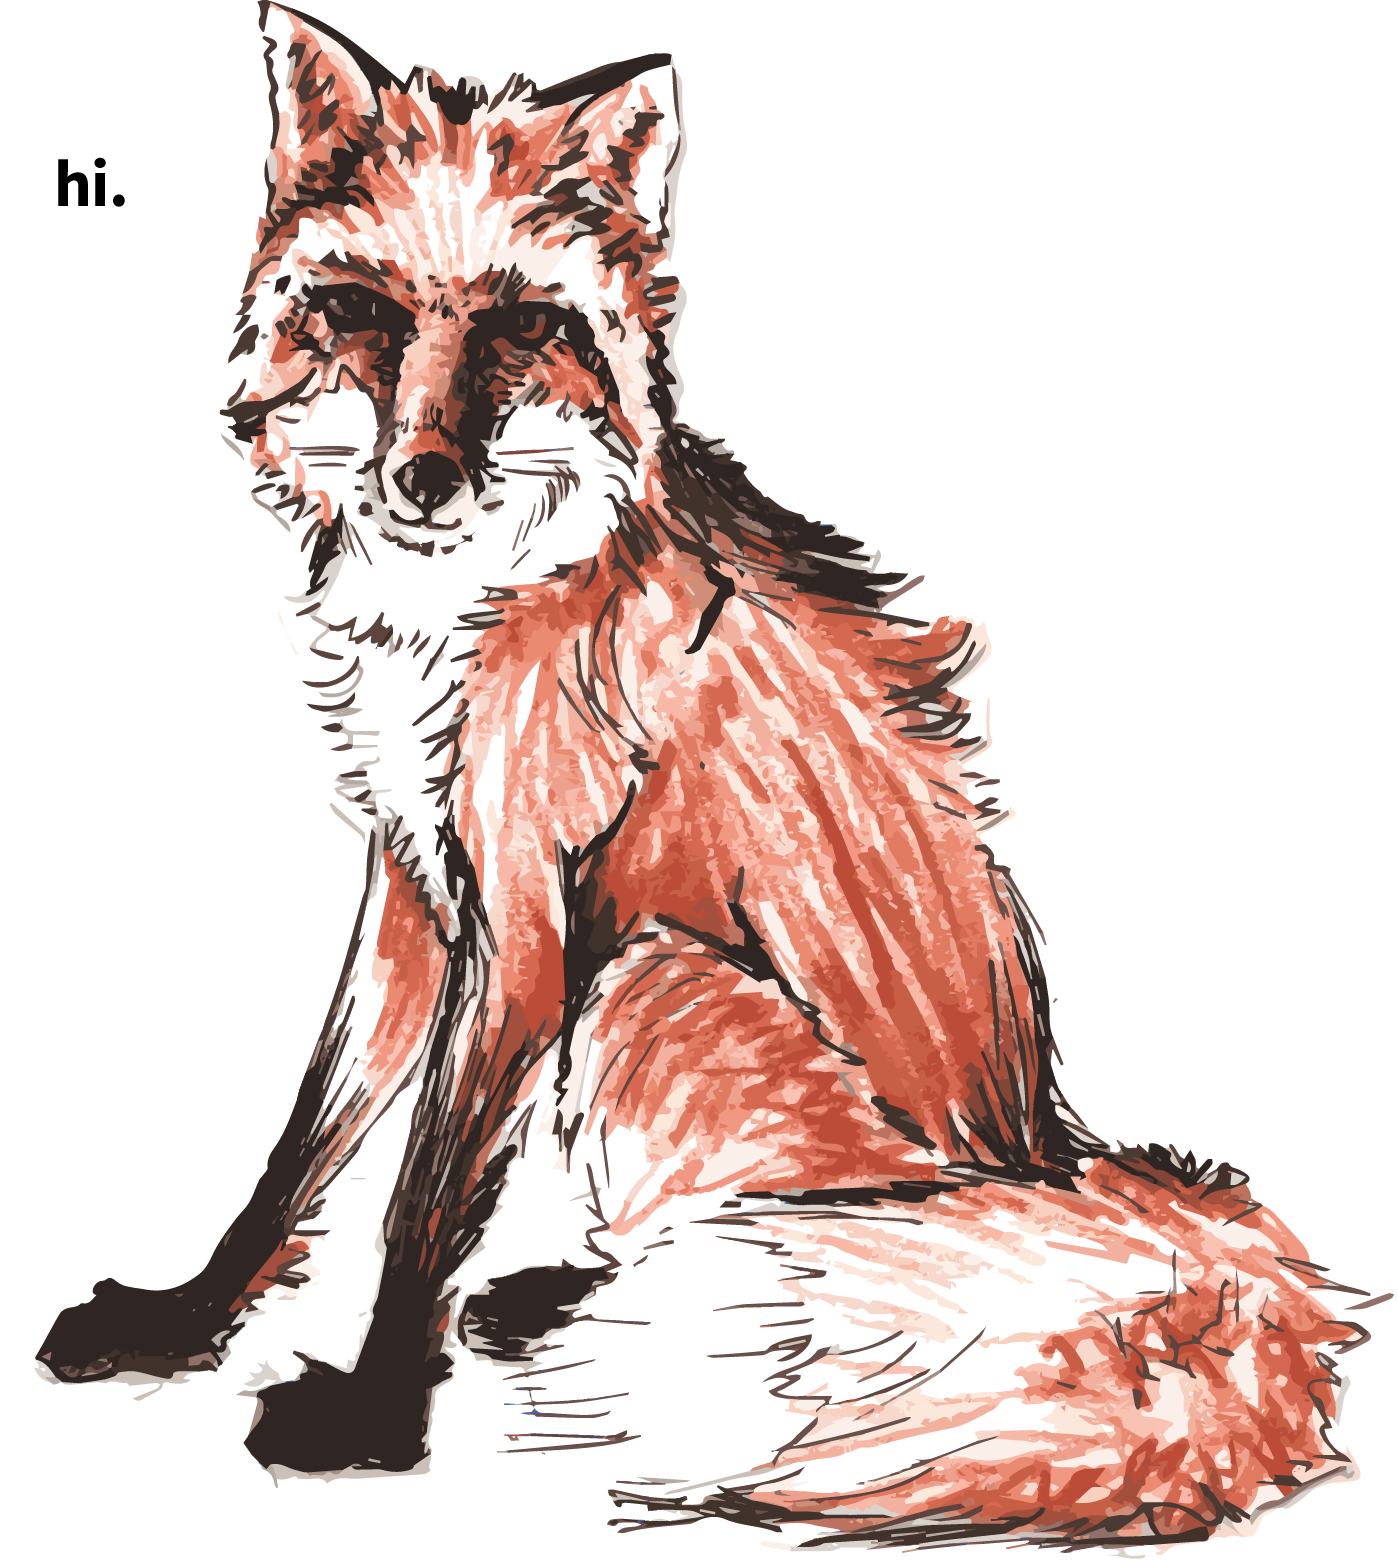
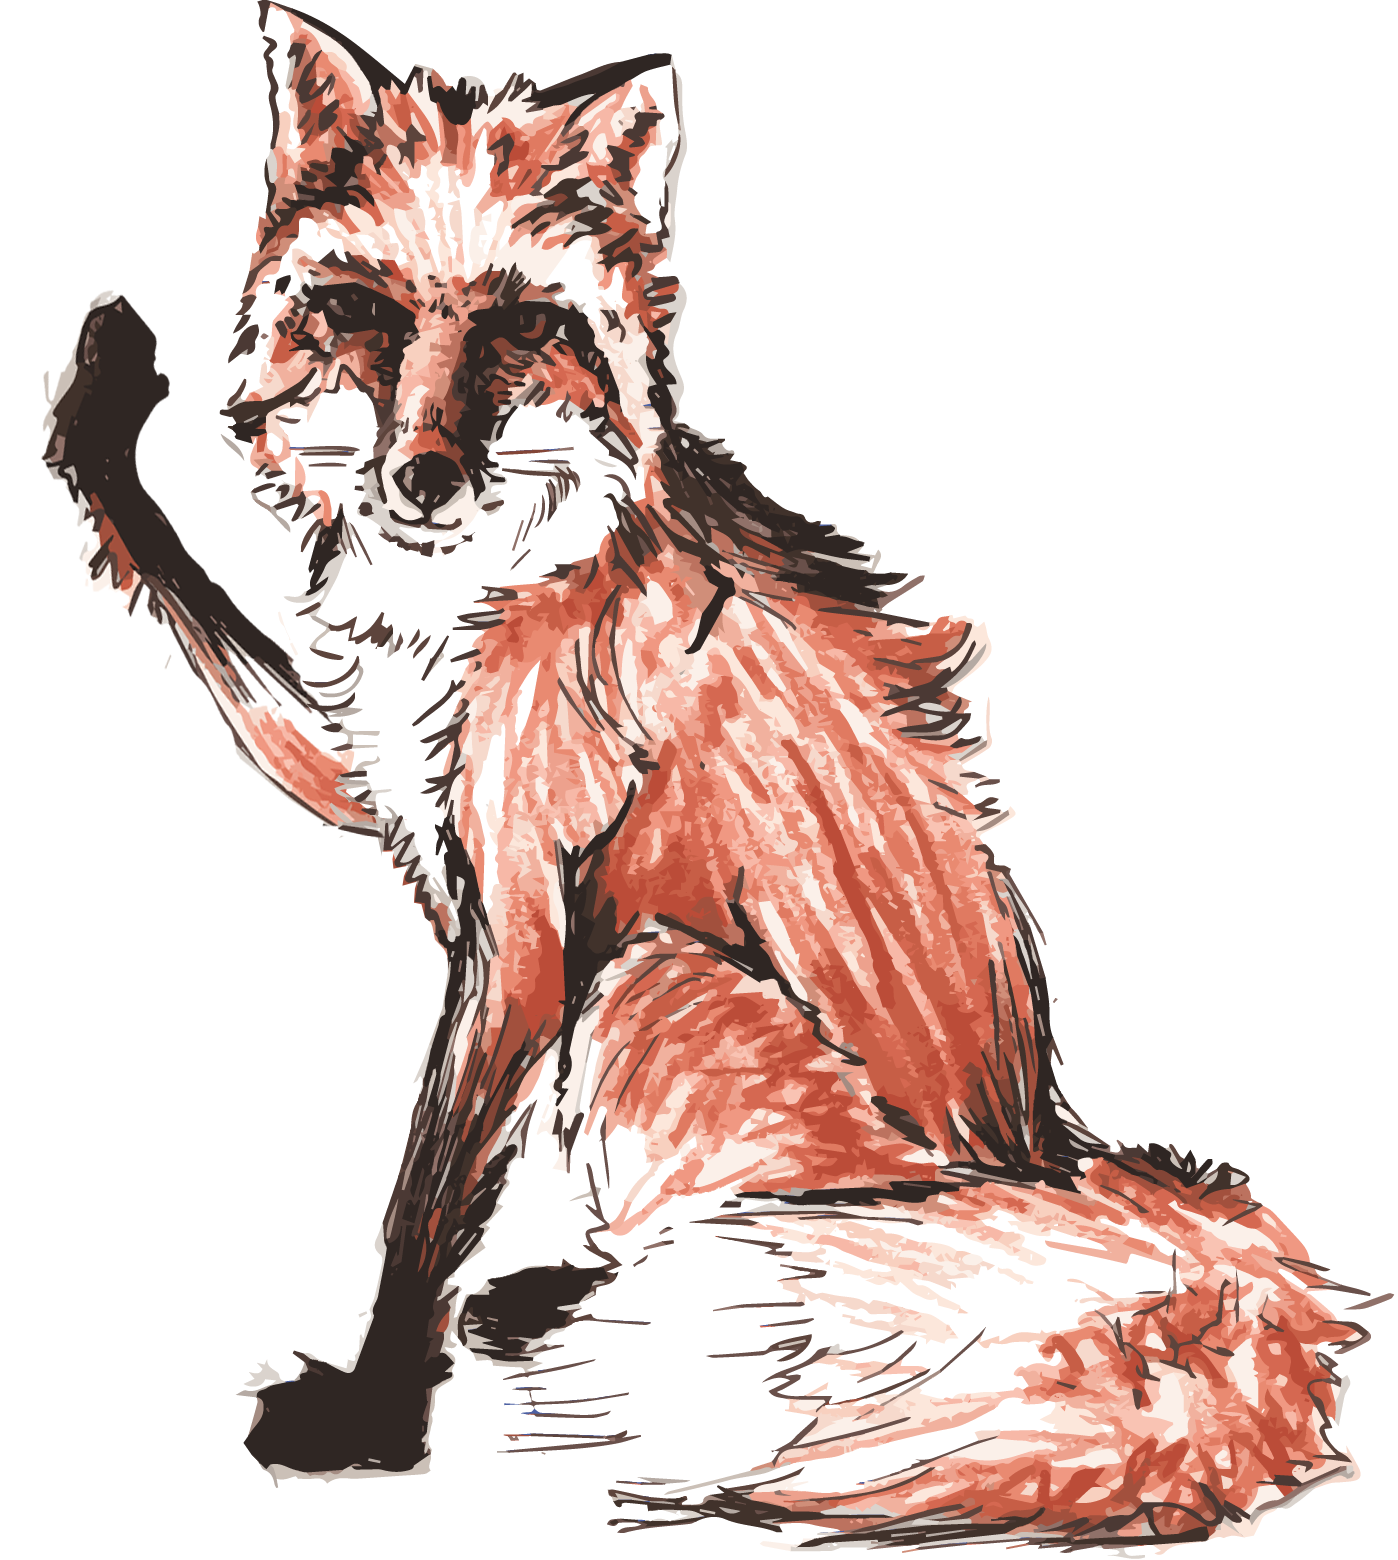
fox animation

Changed region(s): [[0.0308, 0.1846, 0.3383, 0.8923], [0.0308, 0.0923, 0.0923, 0.1538]]

diff --git a/js/script.js b/js/script.js
@@ -17,12 +17,20 @@ $(document).ready(function() {
 		}
 	});
 
-	$("#fox").addClass("animated slideInUp");
+	//$("#fox").addClass("animated slideInUp");
 
 	$("#chameleon").addClass("animated slideInLeft");
 
 	setTimeout(function() {
 		$("#prestoFox").attr("src", "img/fox-hi.png");
 	}, 2000);
+
+	setTimeout(function() {
+		$("#prestoFox").attr("src", "img/fox.png");
+	}, 3000);
+
+	setTimeout(function() {
+		$("#prestoFox").attr("src", "img/fox-hi-word.png");
+	}, 4500);
 });
 
